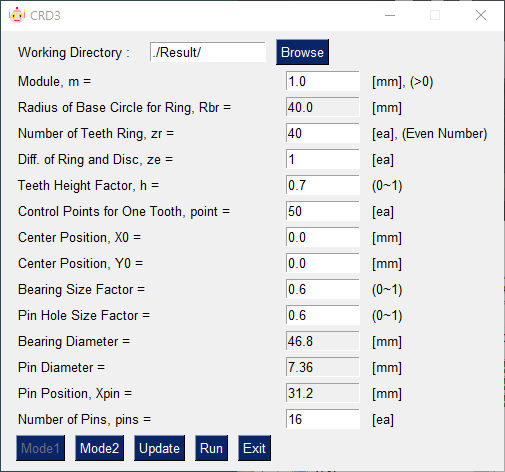
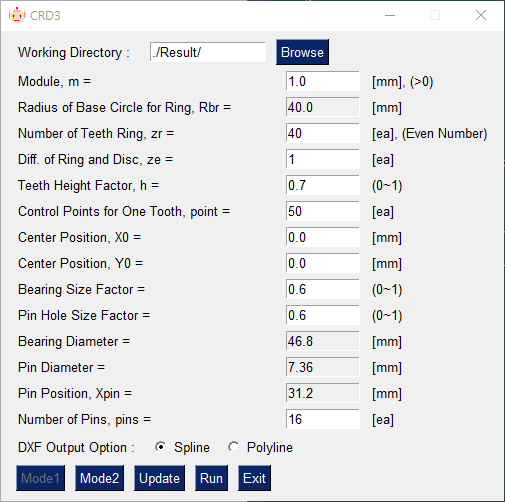
Add Radio buttons for dxf output option

diff --git a/CRD3.py b/CRD3.py
@@ -160,13 +160,19 @@ def SaveDXF(Xring,Yring,Xdisc,Ydisc):
     cpoint1D = [(Xdisc1[0],Ydisc1[0])]
     for i in range(0,len(Xdisc1)) :
         cpoint1D.append((Xdisc1[i],Ydisc1[i]))
-    msp.add_spline(cpoint1D,dxfattribs={'color':4})
+    if values['-spline-']:
+        msp.add_spline(cpoint1D,dxfattribs={'color':4})
+    else:
+        msp.add_polyline2d(cpoint1D,dxfattribs={'color':4})
     # Tooth of Ring Gear
     Xring1,Yring1 = Transform(Xring,Yring,spec.Content['X0'],spec.Content['Y0'])
     cpoint1R = [(Xring1[0],Yring1[0])]
     for i in range(0,len(Xring1)) :
         cpoint1R.append((Xring1[i],Yring1[i]))
-    msp.add_spline(cpoint1R)
+    if values['-spline-']:
+        msp.add_spline(cpoint1R)
+    else:
+        msp.add_polyline2d(cpoint1R)
     # Base Circles
     msp.add_circle((spec.Content['X0']+spec.Content['ea'],spec.Content['Y0']),radius=spec.Content['Rbd'],dxfattribs={'color':4})
     msp.add_circle((spec.Content['X0'],spec.Content['Y0']),radius=spec.Content['Rbr'],dxfattribs={'color':0})
@@ -240,6 +246,7 @@ col = [[sg.Text('Working Directory :',size=(15,1)), sg.Input('./Result/',key='-W
         [sg.Text('Pin Diameter =',size=(32,1)),sg.Input(7.36,key='-pin_dia-',size=(10,1),disabled=True),sg.Text('[mm]')],
         [sg.Text('Pin Position, Xpin =',size=(32,1)),sg.Input(31.2,key='-Xpin-',size=(10,1),disabled=True),sg.Text('[mm]')],
         [sg.Text('Number of Pins, pins =',size=(32,1)),sg.Input(16,key='-pins-',size=(10,1)),sg.Text('[ea]')],
+        [sg.Text('DXF Output Option : '),sg.Radio('Spline','RADIO1',key='-spline-',default=True),sg.Radio('Polyline','RADIO1',key='-polyline-')],
         [sg.Button('Mode1',key='-Mode1-',disabled=True),sg.Button('Mode2',key='-Mode2-',disabled=False),sg.Button('Update',key='-Update-'),sg.Button('Run'), sg.Button('Exit')]]
 
 layout = [[col]]
